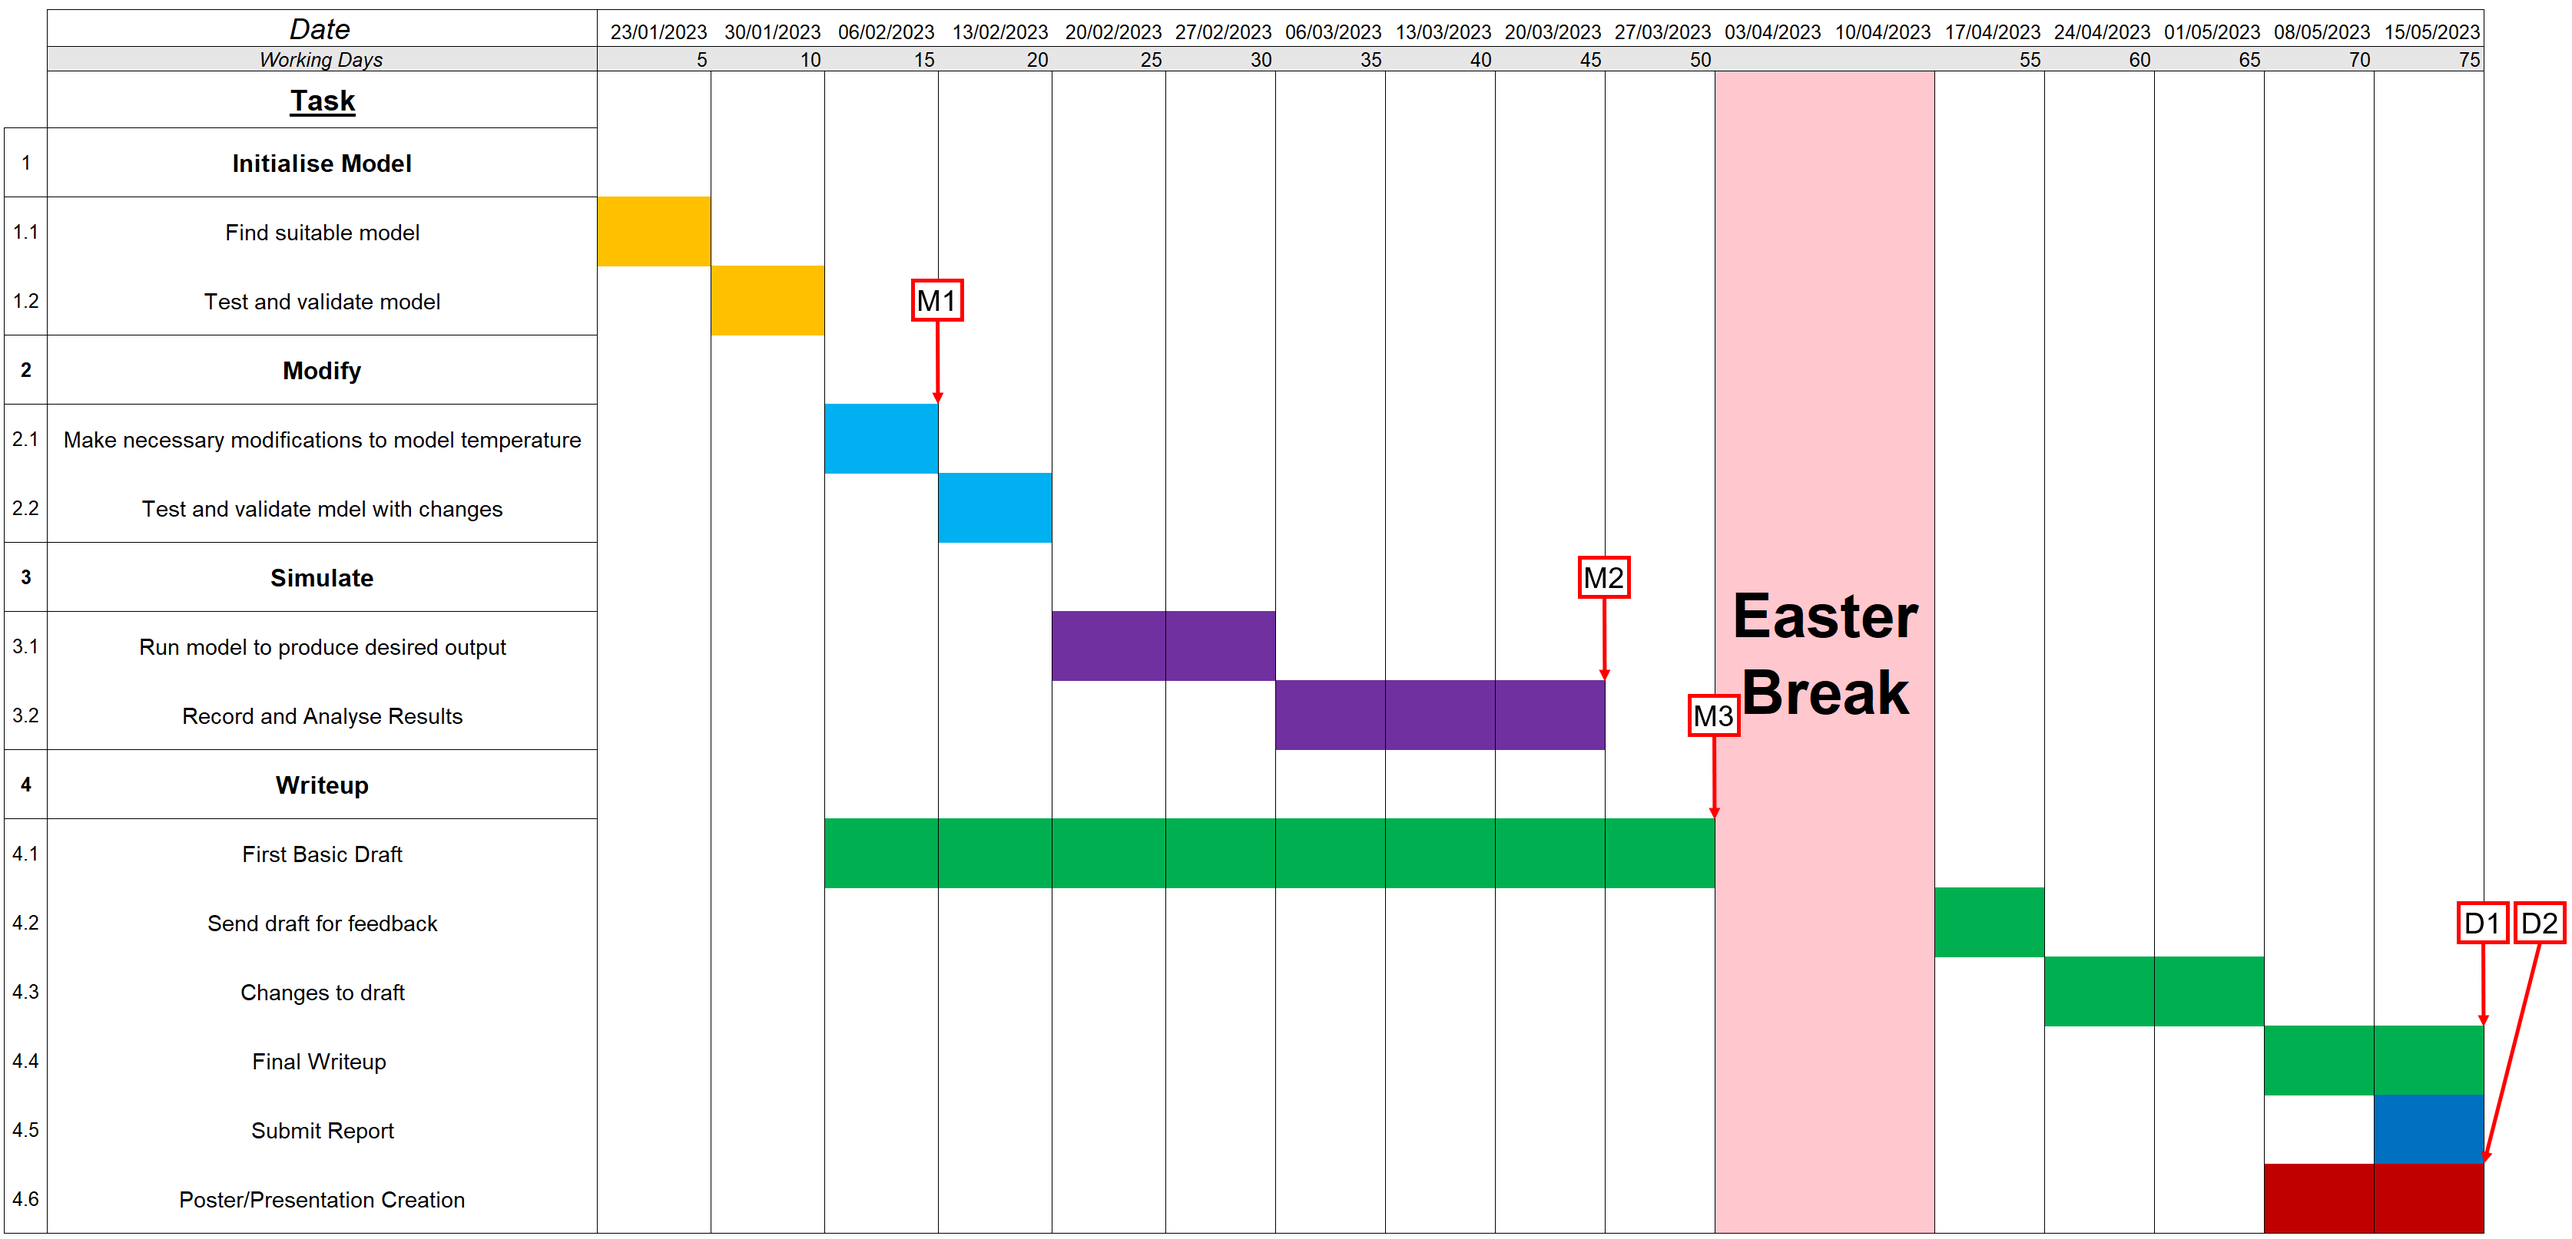
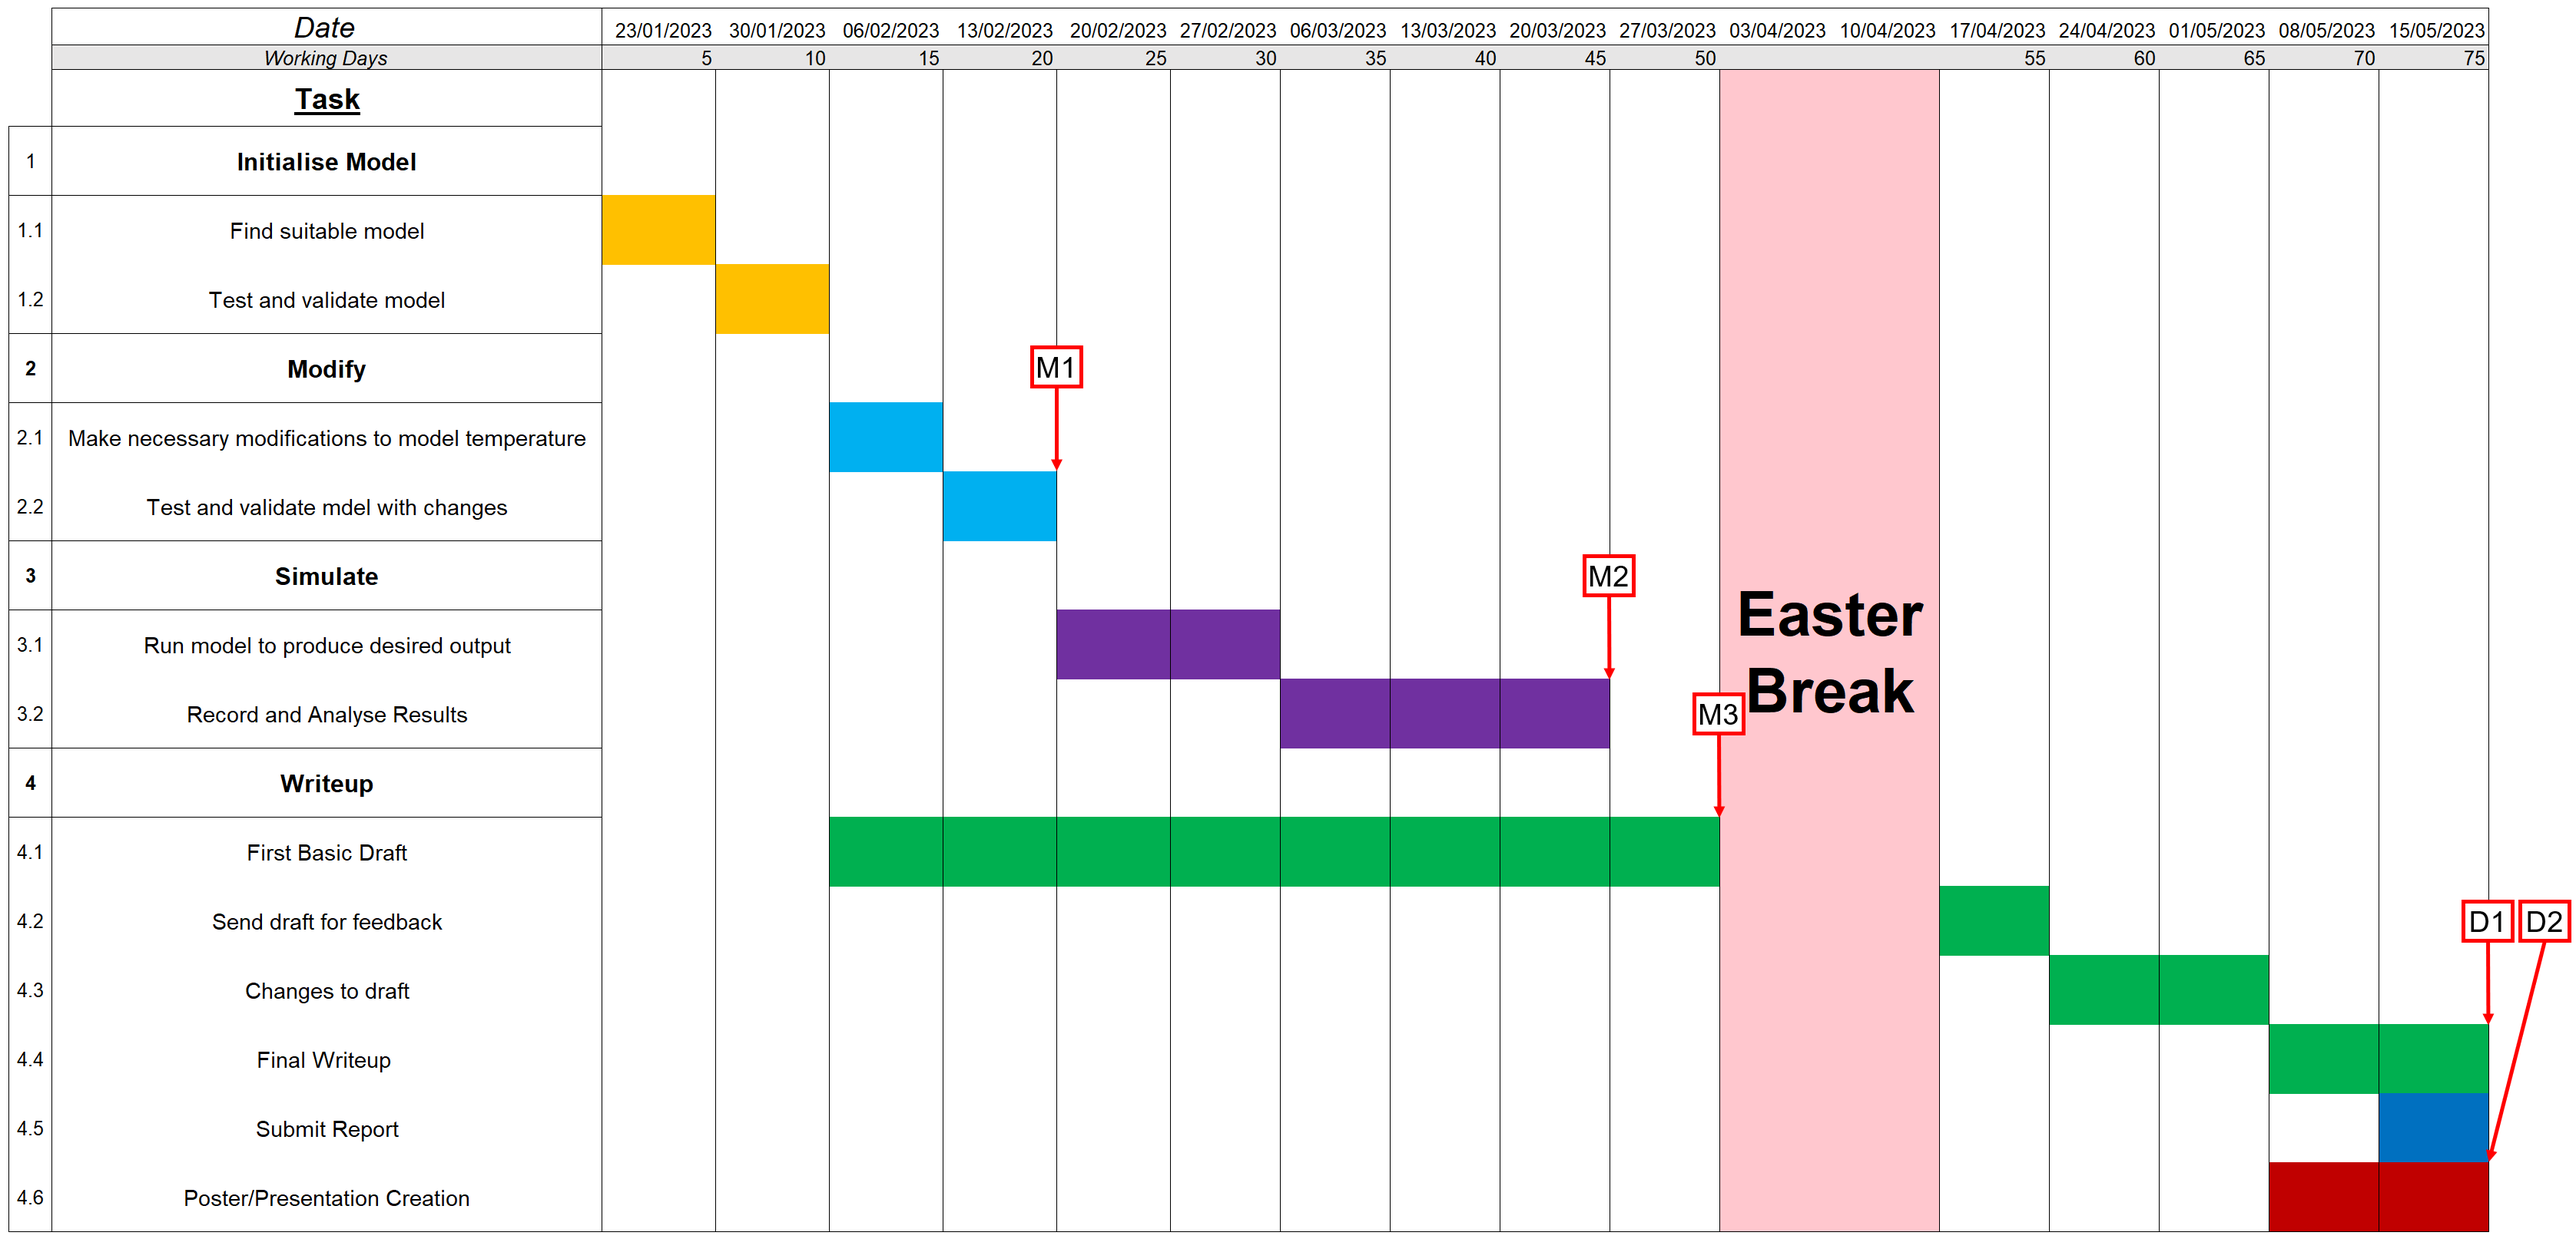
Wrote up milestones and deliverables
Qasim had it so of course I should have it too

Basically just explains each one and why I think they're important

Will be looking forward to Emily's feedback on the Gantt Chart and writeup

diff --git a/Initial Report.md b/Initial Report.md
@@ -210,8 +210,6 @@ Some biological material present as particulates is then removed in the primary 
 
 # Literature Review
 
-- GO BACK AND MENTION PARAMETERS CONSIDERED EARLIER
-
 Within recent years interest in MFCs has increased. This is made clear by review papers considering the current state of modelling work such as those by @Ortiz-Martínez2015 and @Xia2018. These papers are very useful as they provide a broad overview into the technical work in key areas such as potential cell architecture, key parameters to consider and common model assumptions.
 
 For instance, comprehensive models that seek to model all major processes such as the mass diffusion and substrate consumption can be either half cell models that consider the activity around the anode or full cell models that consider both the anode and cathode. Whilst the reaction around the anode is generally considered the limiting stage within the cell, the model for this proposed project will be a full model to provide as much insight into the internal processes of the cell when supplied with a low temperature feed. As a result, the model will be able to produce outputs relating to the biofilm thickness, fuel flow rate and concentration in addition to the electricity generation for comparison to experimental data. 
@@ -279,7 +277,7 @@ removal efficiency and power generation.
 
 # Work Schedule
 
-A proposed work schedule for the upcoming project is shown below in Figure \ref{fig:WS}
+A proposed work schedule for the upcoming project is shown below in Figure \ref{fig:WS}.
 
 \begin{landscape}
 
@@ -289,11 +287,23 @@ A proposed work schedule for the upcoming project is shown below in Figure \ref{
   \label{fig:WS}
 \end{figure}
 
-
-Discussion of Milestones and Deliverables here
-
-
 \end{landscape}
+
+The project plan above features several key milestones and deliverables, notated with 'M' and 'D' respectively. These have been added 
+for future reference to ensure that the project is on track and show the expected completion time of the assessed tasks.
+
+Milestone 1 
+will be reached when a modified model has been tested and validated for use in the project. This is key to ensuring that the project 
+is able to deliver on its intended objectives. Milestone 2 will be reached when this model has been used to produce then desire outputs
+which have then been analysed. This is essential to ensure that the dissertation report is able to provide key insights into the 
+technical challenges facing MFCs as well as a commentary on their effectiveness at different temperatures. Milestone 3 will be 
+completed when the draft report contains a detailed write-up of the previous milestones. This is a crucial step to complete as otherwise there may not be sufficient time to produce a quality report that accurately reflects the work done. 
+
+These milestones should help in the completion of the deliverables. Deliverable 1 is a report finished to a high standard that will
+have undergone several changes and iterations based upon feedback from the Supervisor. As the report is worth 40 credits, missing the deadline would be undesirable. Deliverable 2 is the production of either a presentation or poster that will be used
+to summarise and present the key findings of the project. 
+
+
 
 # References
 
